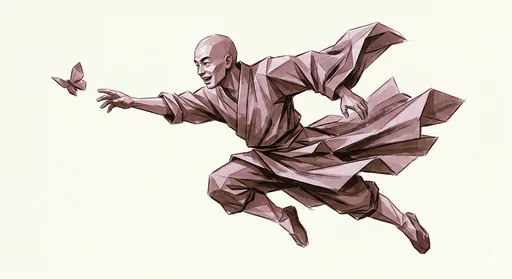
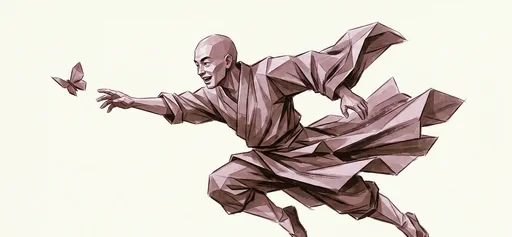
调整: 人格配图放大到384px + 裁掉底部水印
- 图片宽度 w-56(224px) → w-96(384px)
- 裁掉所有图片底部15%水印区域

diff --git a/src/components/player/QuizResult.tsx b/src/components/player/QuizResult.tsx
@@ -89,7 +89,7 @@ export function QuizResult({ scores, personalityType, dimensions: dimConfig, typ
               <img
                 src={typeDesc.imageUrl}
                 alt={personalityType}
-                className="w-56 h-auto object-contain drop-shadow-md"
+                className="w-96 h-auto object-contain drop-shadow-md"
                 onError={(e) => { e.currentTarget.style.display = "none" }}
               />
             </div>
